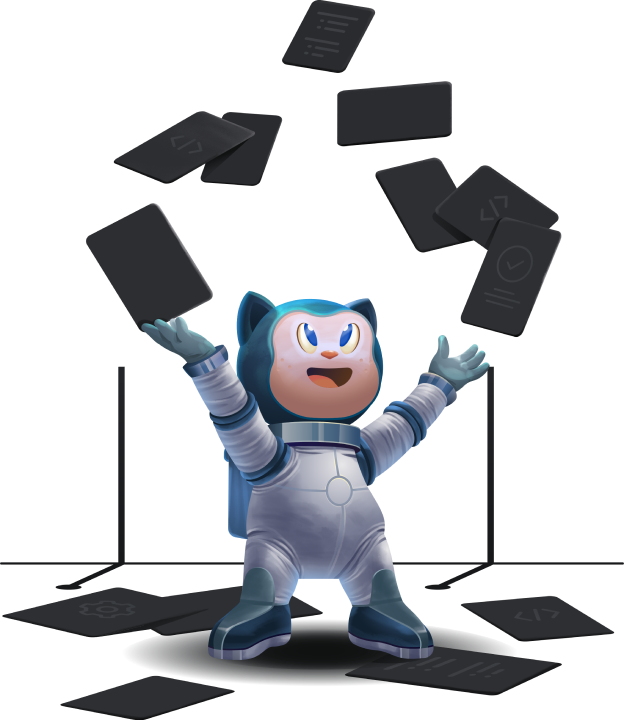
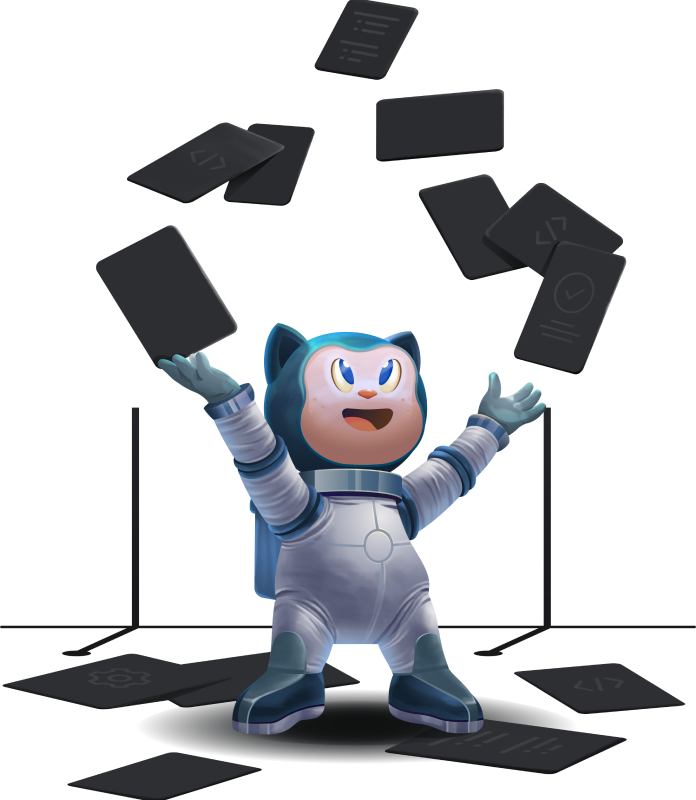
chore(styles): minor changes (#43)
* refactor(styles): update styles of sidebar

* refactor(components): udpate an image in editor

* refactor(components): remove click event from label in Input component

* refactor(styles): change a color of No group select option

* fix(styles): fix a bug with overflow in sidebar

diff --git a/templates/frontend/src/components/shared/dropdown/menu/menu.jsx b/templates/frontend/src/components/shared/dropdown/menu/menu.jsx
@@ -9,25 +9,18 @@ const Menu = ({ items, hasIcons, className }) => (
   <div className={cx('menu', className)}>
     {items &&
       items.map((item) => {
-        const {
-          text,
-          icon: Icon,
-          tagName: Tag = 'div',
-          onClick = undefined,
-          href = undefined,
-          theme = 'default',
-        } = item;
+        const { text, icon: Icon, tagName: Tag = 'div', onClick, href, theme } = item;
 
         if (Tag === 'Link') {
           return (
             <Link key={text} href={href}>
-              <a className={cx('item', theme === 'danger' && 'danger')}>{text}</a>
+              <a className={cx('item', theme)}>{text}</a>
             </Link>
           );
         }
 
         return (
-          <Tag key={text} className={cx('item', theme === 'danger' && 'danger')} onClick={onClick}>
+          <Tag key={text} className={cx('item', theme)} onClick={onClick}>
             {hasIcons && <Icon />}
             {text}
           </Tag>
@@ -45,7 +38,7 @@ Menu.propTypes = {
       tagName: PropTypes.oneOf(['div', 'Link', 'button']),
       onClick: PropTypes.func,
       href: PropTypes.string,
-      theme: PropTypes.oneOf(['default', 'danger']),
+      theme: PropTypes.oneOf(['default', 'danger', 'grey']),
     })
   ),
 };

diff --git a/templates/frontend/src/components/shared/input/input.jsx b/templates/frontend/src/components/shared/input/input.jsx
@@ -9,7 +9,7 @@ const cx = classNames.bind(styles);
 const Input = forwardRef((props, ref) => {
   const { className: additionalClassName, register, label, type, error, ...otherProps } = props;
   return (
-    <label className={cx('wrapper', additionalClassName)}>
+    <div className={cx('wrapper', additionalClassName)}>
       {label && <div className={cx('label')}>{label}</div>}
       <div className={cx('input-wrapper')}>
         <input
@@ -20,7 +20,7 @@ const Input = forwardRef((props, ref) => {
         />
         {error && <div className={cx('error')}>{error}</div>}
       </div>
-    </label>
+    </div>
   );
 });
 

diff --git a/templates/frontend/src/components/shared/sidebar/templates-groups-tree/templates-groups-tree.module.scss b/templates/frontend/src/components/shared/sidebar/templates-groups-tree/templates-groups-tree.module.scss
@@ -1,9 +1,15 @@
 .wrapper {
-  margin-bottom: 20px;
+  height: calc(100vh - 255px);
+  padding-right: 20px;
+  padding-left: 20px;
+  margin-right: -20px;
+  margin-bottom: 30px;
+  margin-left: -20px;
+  overflow-y: scroll;
 }
 
 .section {
-  margin-bottom: 40px;
+  margin-bottom: 20px;
 
   &:last-child {
     margin-bottom: 0;

diff --git a/templates/frontend/src/components/shared/editor/editor.jsx b/templates/frontend/src/components/shared/editor/editor.jsx
@@ -100,8 +100,8 @@ const Editor = () => {
           <Image
             src="/images/templates-illustration.png"
             alt="Templates"
-            width={312}
-            height={360}
+            width={348}
+            height={400}
             quality={90}
           />
         </div>

diff --git a/templates/frontend/src/components/shared/template-form/template-form.jsx b/templates/frontend/src/components/shared/template-form/template-form.jsx
@@ -145,6 +145,7 @@ const TemplateForm = ({ initialValues, isCreatingNewTemplate = false, onSave }) 
     })),
     {
       text: 'No group',
+      theme: 'grey',
       onClick: () => setGroup(null),
     },
   ];

diff --git a/templates/frontend/src/components/shared/dropdown/menu/menu.module.scss b/templates/frontend/src/components/shared/dropdown/menu/menu.module.scss
@@ -54,4 +54,8 @@
       }
     }
   }
+
+  &.grey {
+    color: $color-grey;
+  }
 }
